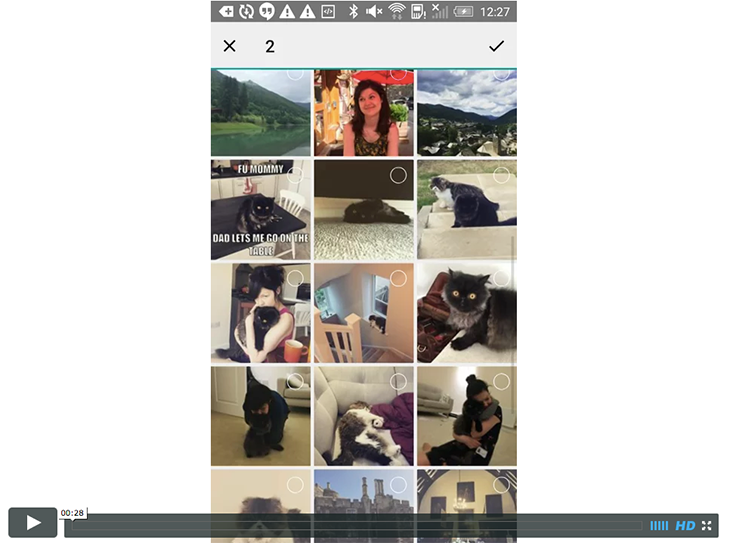
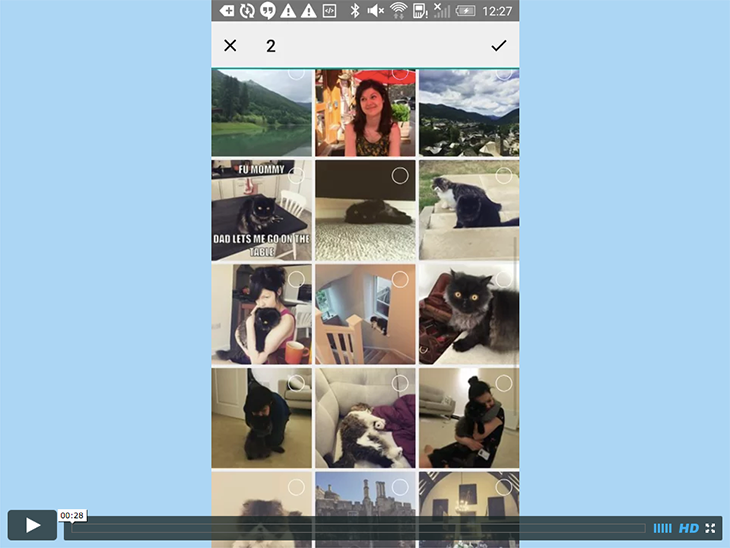
Updated README

diff --git a/README.md b/README.md
@@ -4,7 +4,7 @@ A Instagram image picker providing a simple UI for a user to pick photos from th
 
 It takes care of all authentication with Instagram as and when necessary. It will automatically renew auth tokens or prompt the user to re-authorize the app if needed. 
 
-## Screenshots
+## Video Preview
 
 [![Preview](https://github.com/OceanLabs/InstagramPhotoPicker-Android/raw/master/screenshot.png)](https://vimeo.com/135676657)
 
